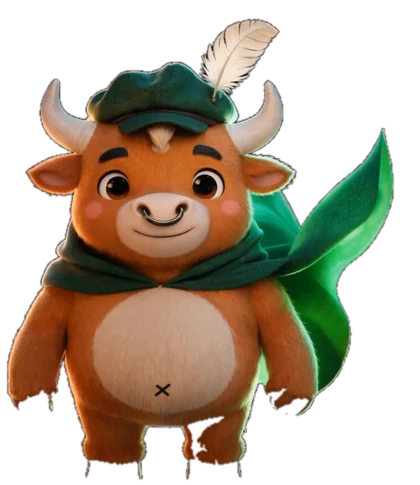
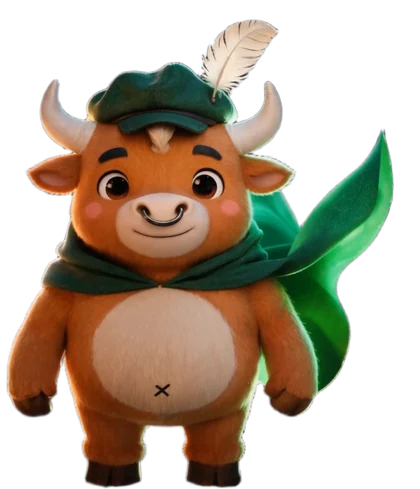
Hero animation rebuilt from the founder's own cut frames

diff --git a/index.html b/index.html
@@ -1,4 +1,4 @@
-<!doctype html><html lang="en"><head><meta charset="utf-8"><meta name="viewport" content="width=device-width, initial-scale=1, viewport-fit=cover"><title>BullQuest: gamified tokenized stocks</title><meta name="theme-color" content="#0FB948"><link rel="preconnect" href="https://cewumdioknvjtsiolxce.supabase.co" crossorigin><link rel="dns-prefetch" href="https://cewumdioknvjtsiolxce.supabase.co"><meta name="description" content="BullQuest is a game on Robinhood Chain. Mint a Genesis Bull, win duels for GRIT, and swap it for real tokenized stock: NVDA, TSLA, AAPL, AMZN and SPY."><link rel="icon" type="image/png" sizes="256x256" href="assets/icons/favicon-v2.png"><link rel="apple-touch-icon" href="assets/icons/favicon-512-v2.png"><style>html,body{margin:0;padding:0;background:#EDEFF3;font-family:system-ui,"Segoe UI Variable","Segoe UI",Roboto,-apple-system,"Helvetica Neue",Arial,sans-serif}button,input,select,textarea{font-family:inherit}</style><link rel="canonical" href="https://bullquest.fun/"><meta property="og:type" content="website"><meta property="og:site_name" content="BullQuest"><meta property="og:title" content="BullQuest: gamified tokenized stocks"><meta property="og:description" content="BullQuest is a game on Robinhood Chain. Mint a Genesis Bull, win duels for GRIT, and swap it for real tokenized stock: NVDA, TSLA, AAPL, AMZN and SPY."><meta property="og:url" content="https://bullquest.fun/"><meta property="og:image" content="https://bullquest.fun/assets/og-card-v6.png"><meta property="og:image:width" content="1200"><meta property="og:image:height" content="630"><meta property="og:image:alt" content="BullQuest, gamified tokenized stocks"><meta name="twitter:card" content="summary_large_image"><meta name="twitter:site" content="@BullQuestSol"><meta name="twitter:title" content="BullQuest: gamified tokenized stocks"><meta name="twitter:description" content="BullQuest is a game on Robinhood Chain. Mint a Genesis Bull, win duels for GRIT, and swap it for real tokenized stock: NVDA, TSLA, AAPL, AMZN and SPY."><meta name="twitter:image" content="https://bullquest.fun/assets/og-card-v6.png"></head><body><script>window.BQ_BUILD="1787027073";try{console.log("BullQuest build 1787027073");}catch(e){}</script><script>
+<!doctype html><html lang="en"><head><meta charset="utf-8"><meta name="viewport" content="width=device-width, initial-scale=1, viewport-fit=cover"><title>BullQuest: gamified tokenized stocks</title><meta name="theme-color" content="#0FB948"><link rel="preconnect" href="https://cewumdioknvjtsiolxce.supabase.co" crossorigin><link rel="dns-prefetch" href="https://cewumdioknvjtsiolxce.supabase.co"><meta name="description" content="BullQuest is a game on Robinhood Chain. Mint a Genesis Bull, win duels for GRIT, and swap it for real tokenized stock: NVDA, TSLA, AAPL, AMZN and SPY."><link rel="icon" type="image/png" sizes="256x256" href="assets/icons/favicon-v2.png"><link rel="apple-touch-icon" href="assets/icons/favicon-512-v2.png"><style>html,body{margin:0;padding:0;background:#EDEFF3;font-family:system-ui,"Segoe UI Variable","Segoe UI",Roboto,-apple-system,"Helvetica Neue",Arial,sans-serif}button,input,select,textarea{font-family:inherit}</style><link rel="canonical" href="https://bullquest.fun/"><meta property="og:type" content="website"><meta property="og:site_name" content="BullQuest"><meta property="og:title" content="BullQuest: gamified tokenized stocks"><meta property="og:description" content="BullQuest is a game on Robinhood Chain. Mint a Genesis Bull, win duels for GRIT, and swap it for real tokenized stock: NVDA, TSLA, AAPL, AMZN and SPY."><meta property="og:url" content="https://bullquest.fun/"><meta property="og:image" content="https://bullquest.fun/assets/og-card-v6.png"><meta property="og:image:width" content="1200"><meta property="og:image:height" content="630"><meta property="og:image:alt" content="BullQuest, gamified tokenized stocks"><meta name="twitter:card" content="summary_large_image"><meta name="twitter:site" content="@BullQuestSol"><meta name="twitter:title" content="BullQuest: gamified tokenized stocks"><meta name="twitter:description" content="BullQuest is a game on Robinhood Chain. Mint a Genesis Bull, win duels for GRIT, and swap it for real tokenized stock: NVDA, TSLA, AAPL, AMZN and SPY."><meta name="twitter:image" content="https://bullquest.fun/assets/og-card-v6.png"></head><body><script>window.BQ_BUILD="1787027852";try{console.log("BullQuest build 1787027852");}catch(e){}</script><script>
 /* BRAND LOGO. New Robinhood-era mark everywhere, EXCEPT the Classic edition, which is the old
    game reached by Play now -> old version. Founder, 2026-08-18: change it every fucking where
    except the old app. Static markup carries the new mark directly; anything rendered from JS
@@ -3092,7 +3092,7 @@ button,a,[role="button"],.chip,.stance,.fchip,.wchip{touch-action:manipulation}
           <!-- TEMPORARY TEST, 2026-08-18. Robin Hood bull on trial as the hero mascot. To revert,
                put this line back:
                src="https://cewumdioknvjtsiolxce.supabase.co/storage/v1/object/public/bulls/nft_1715.webp" width="440" height="440" -->
-          <img class="bq-hero-bull" src="assets/hero-bull-poster.webp" alt="A BullQuest bull in a Robin Hood cap and cape" width="420" height="485" fetchpriority="high" style="height:auto;display:block" data-anim="assets/hero-bull-anim.webp">
+          <img class="bq-hero-bull" src="assets/hero-bull-poster.webp" alt="A BullQuest bull in a Robin Hood cap and cape" width="420" height="489" fetchpriority="high" style="height:auto;display:block" data-anim="assets/hero-bull-anim.webp">
 
         </div>
       </div>
